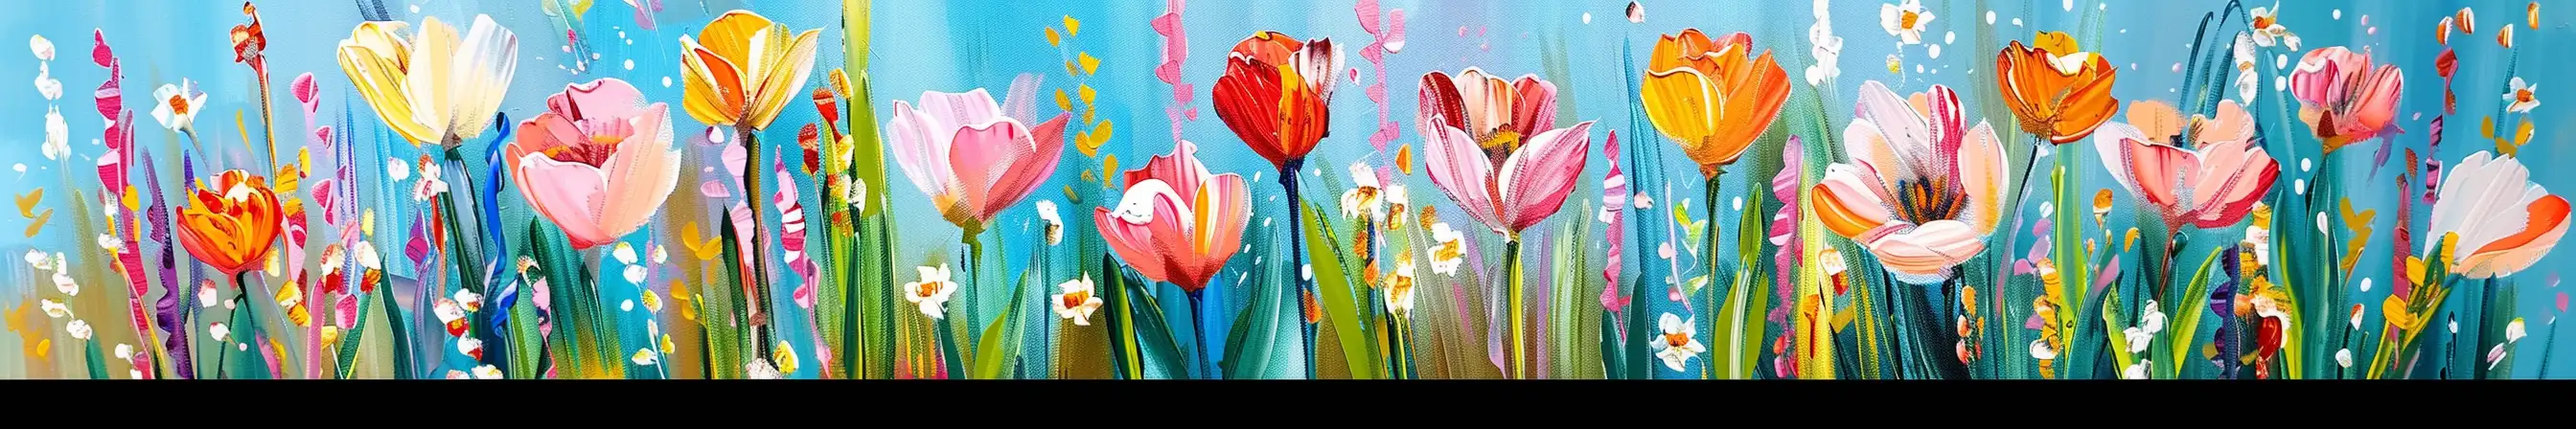
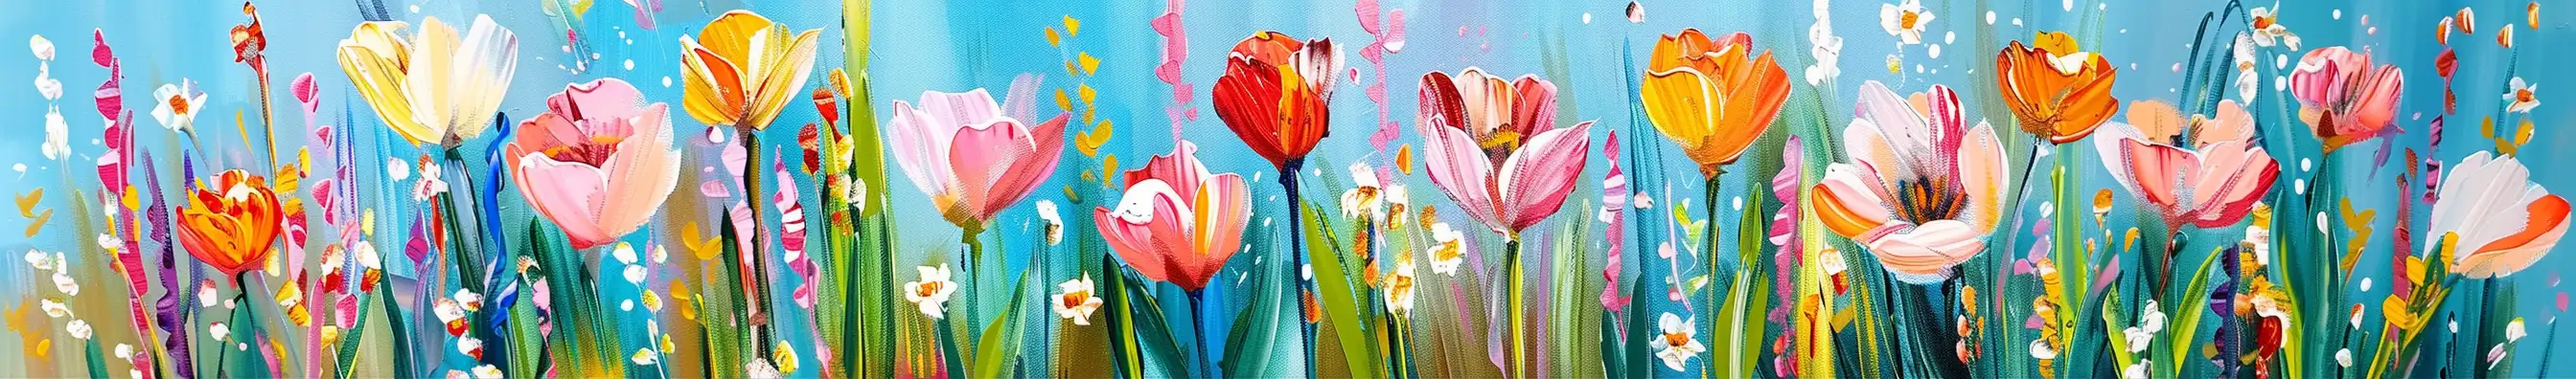
Home header image fixed

diff --git a/index.html b/index.html
@@ -6,9 +6,9 @@ layout: single
 classes: wide
 title: "Welcome to Christopher Sherrod's Thoughts Garden🪴"
 author_profile: true
-teaser: /assets/images/home-header.webp
+teaser: /assets/images/home-header2.webp
 header:
-  image: /assets/images/home-header.webp
+  image: /assets/images/home-header2.webp
 ---
 <p>
   I am a retired entrepreneur & business investor turned writer. Here, I share
